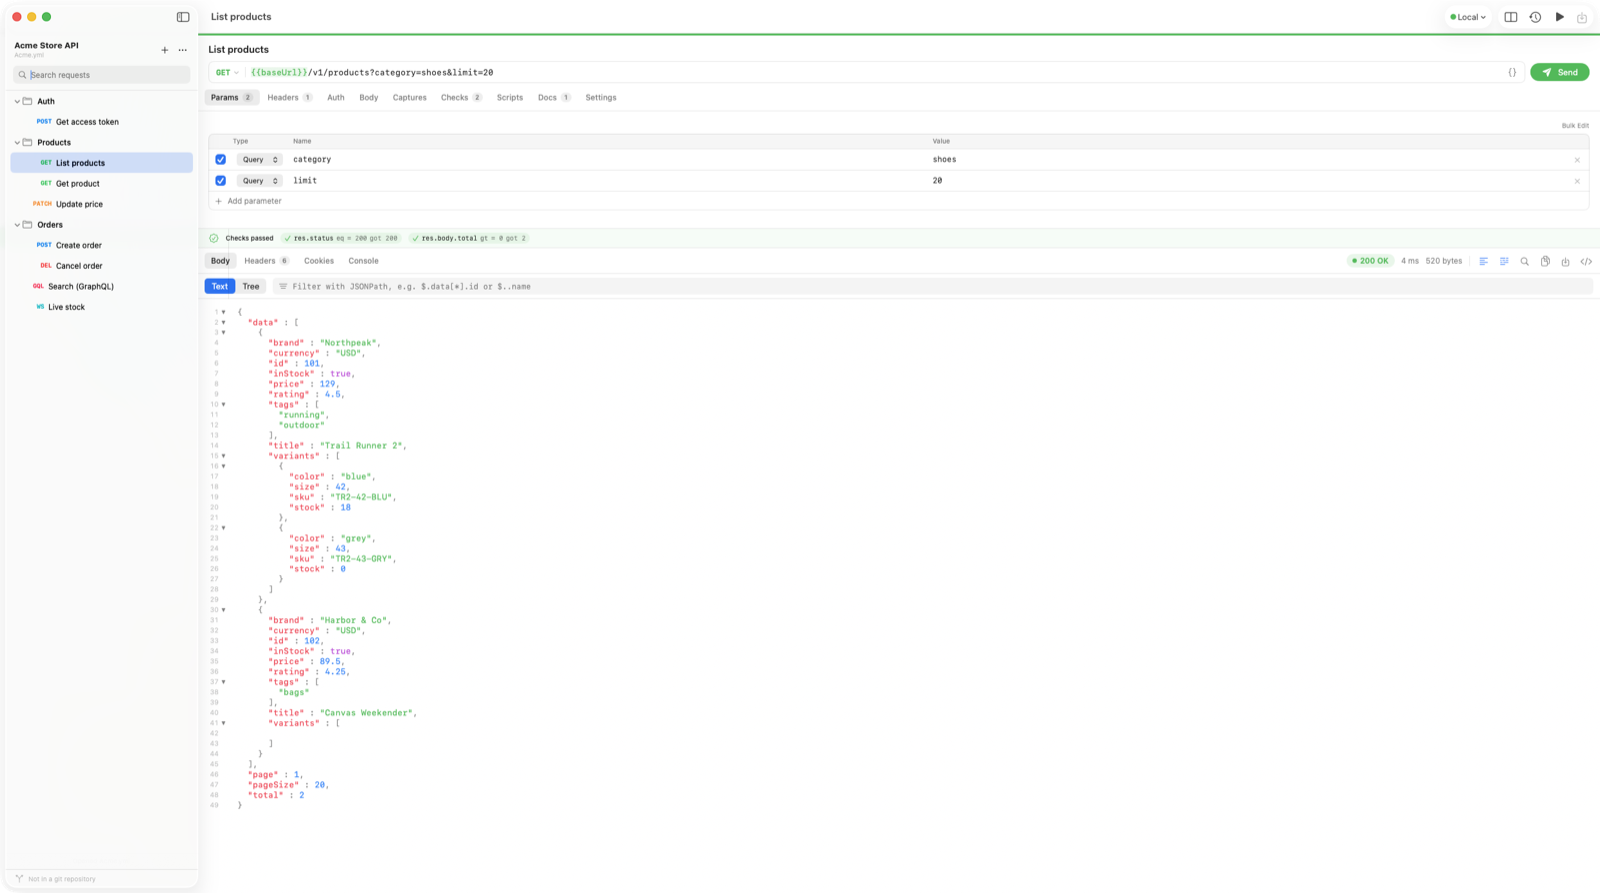
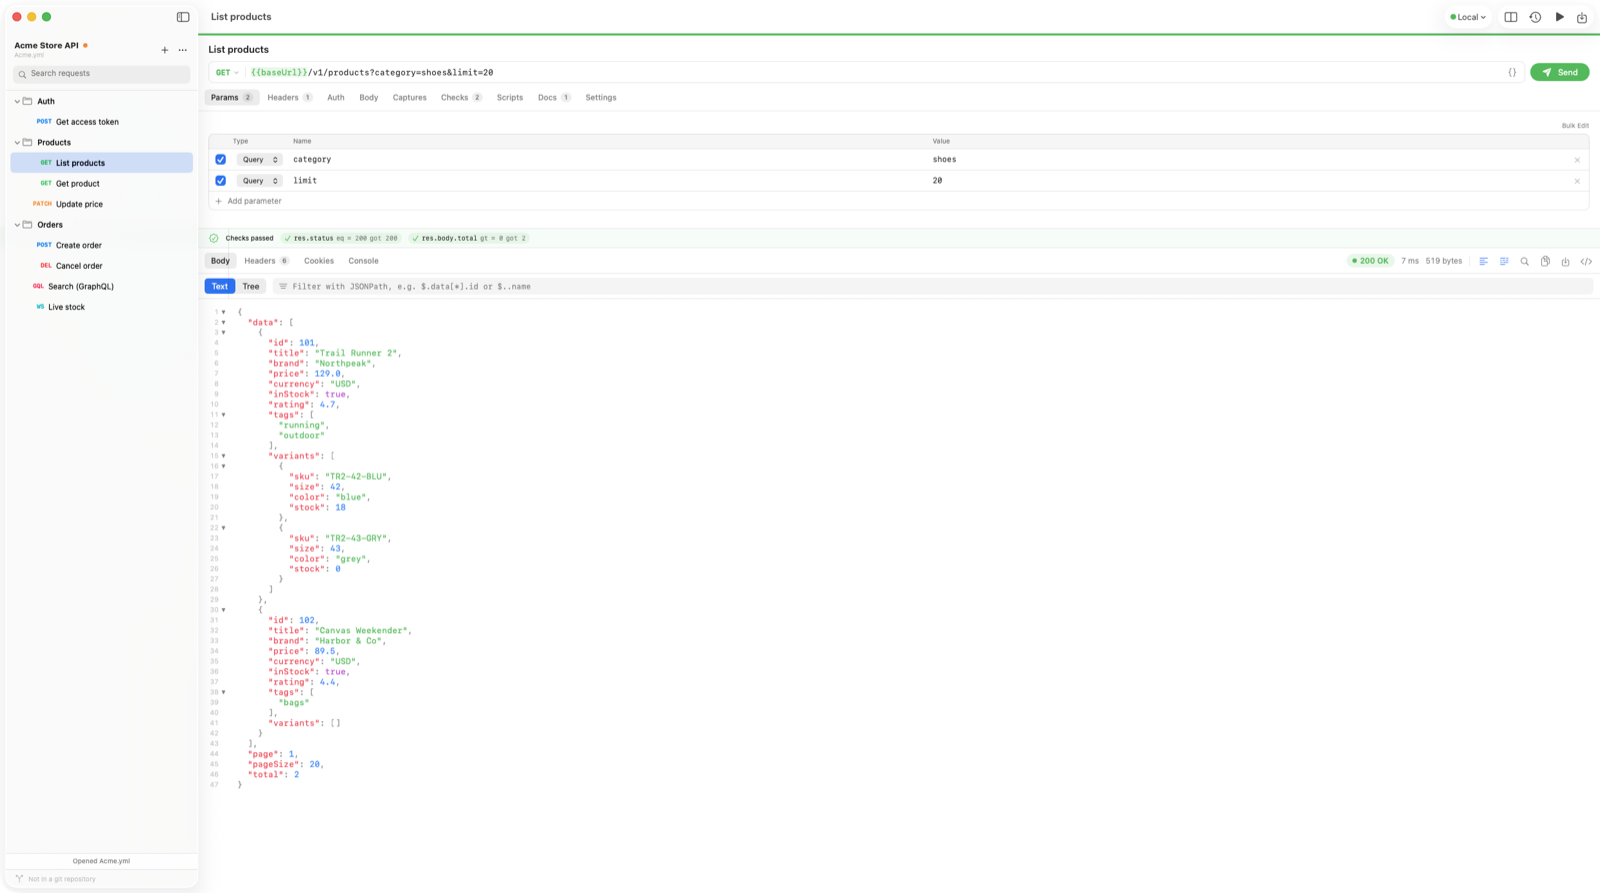
README: plainer tagline and refreshed screenshots

Changed region(s): [[0.1562, 0.3628, 0.25, 0.6349], [0.1562, 0.6954, 0.25, 0.9071], [0.0312, 0.0605, 0.0625, 0.0907]]

diff --git a/README.md b/README.md
@@ -1,8 +1,7 @@
 # Gowa
 
-A fast, light, beautiful HTTP client for macOS — native SwiftUI, with
-collections stored as [OpenCollection](https://www.opencollection.com/) YAML
-files you can keep in git.
+A fast, native HTTP client for macOS, with collections stored as
+[OpenCollection](https://www.opencollection.com/) YAML files you can keep in git.
 
 ![A request with query parameters, passing checks, and a highlighted JSON response](docs/screenshots/request.png)
 
